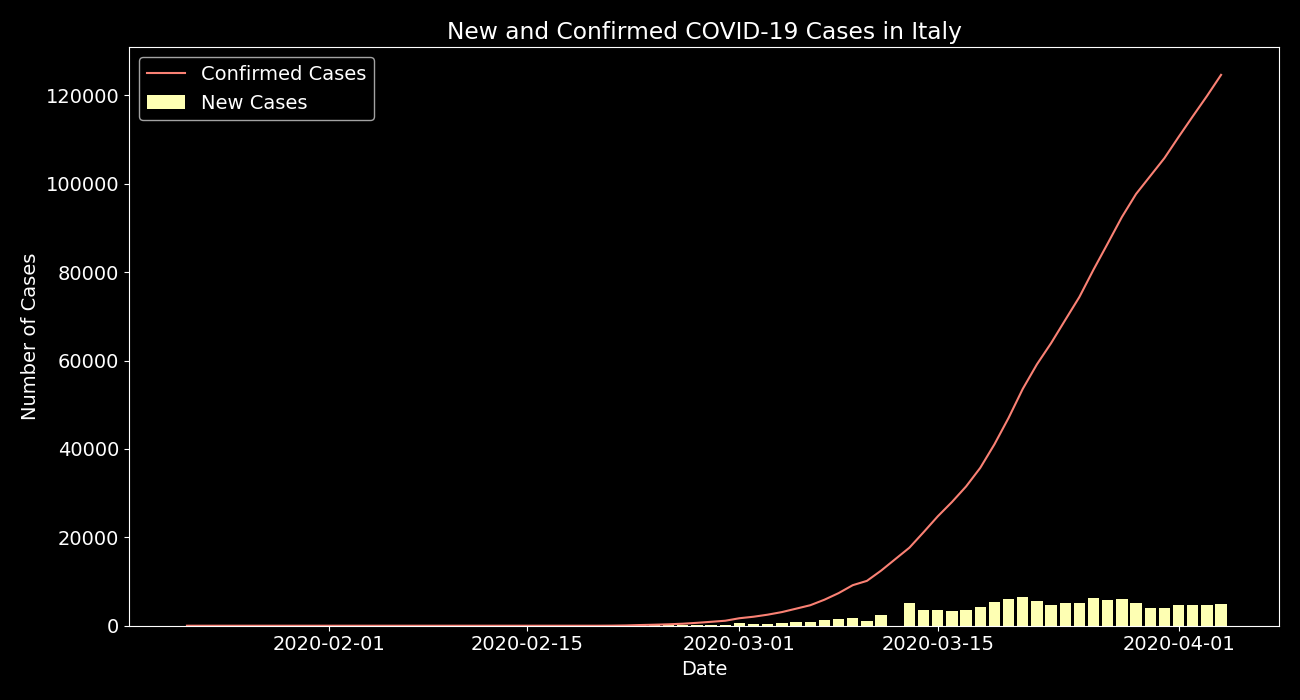
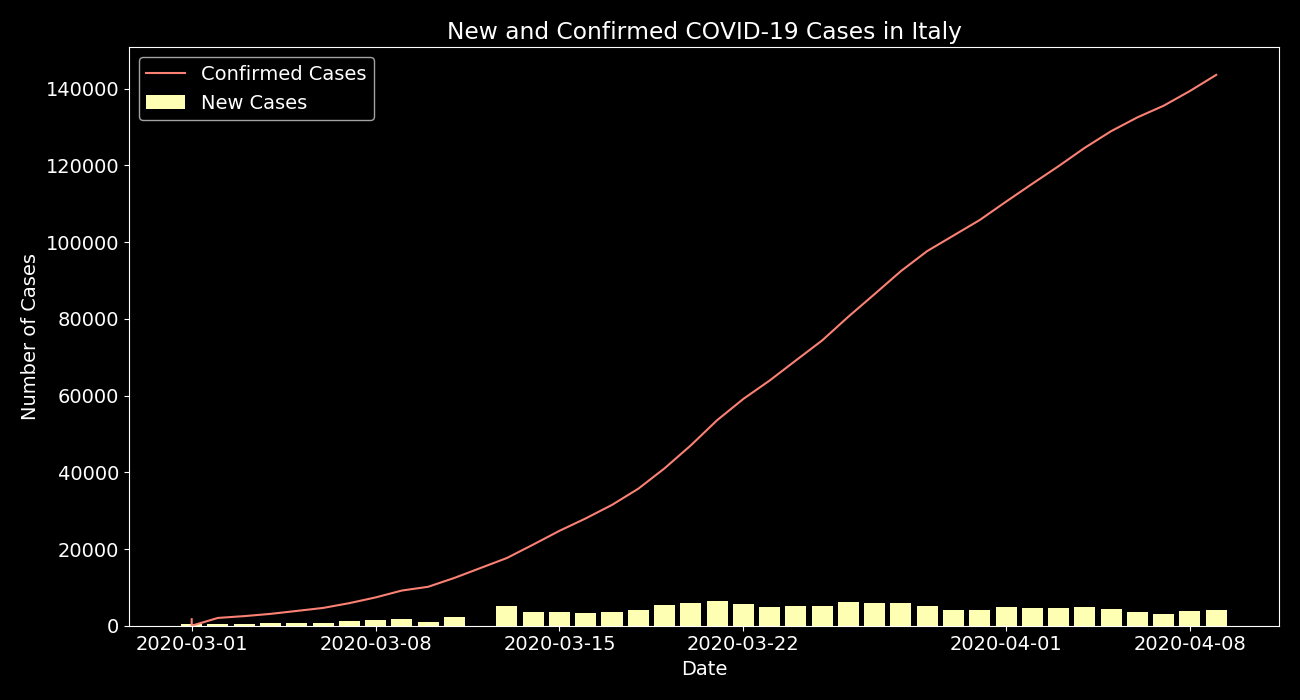
Update figures (from script)

diff --git a/source/new_and_total_plots.py b/source/new_and_total_plots.py
@@ -13,7 +13,7 @@ plt.style.use('dark_background')
 
 show_figure = False
 save_figure = True
-start_date = date(2020, 3, 1)
+start_date = date(2020, 2, 14)
 diminish_date = date(2020, 3, 19)
 raw_usa_states_csv = os.path.abspath(os.path.join(
     os.path.dirname(__file__),
